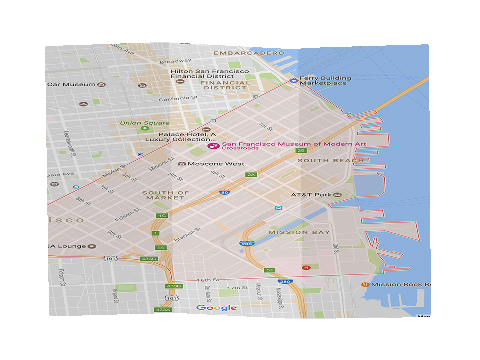
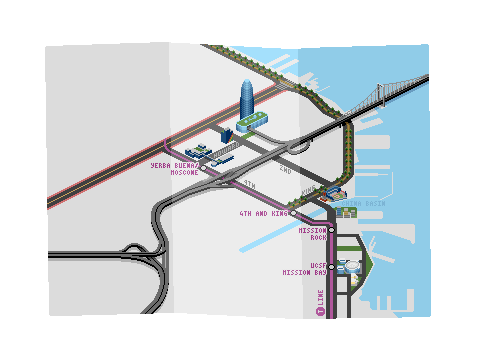
Map of SF with notes.

diff --git a/packages/sanfrancisco-soma/items/map/map.html b/packages/sanfrancisco-soma/items/map/map.html
@@ -4,6 +4,9 @@
     {{#LandsOfIllusions.Components.Overlay}}
     {{else}}
       <div class="map-area max-area">
+        <div class="notes-area {{notesVisibleClass}}">
+          <img class="notes" src="{{image '/sanfrancisco/soma/items/map/notes.png'}}"/>
+        </div>
         <img class="map" src="{{image '/sanfrancisco/soma/items/map/map.png'}}"/>
         <img class="hand" src="{{image '/sanfrancisco/soma/items/map/hand.png'}}" />
       </div>
